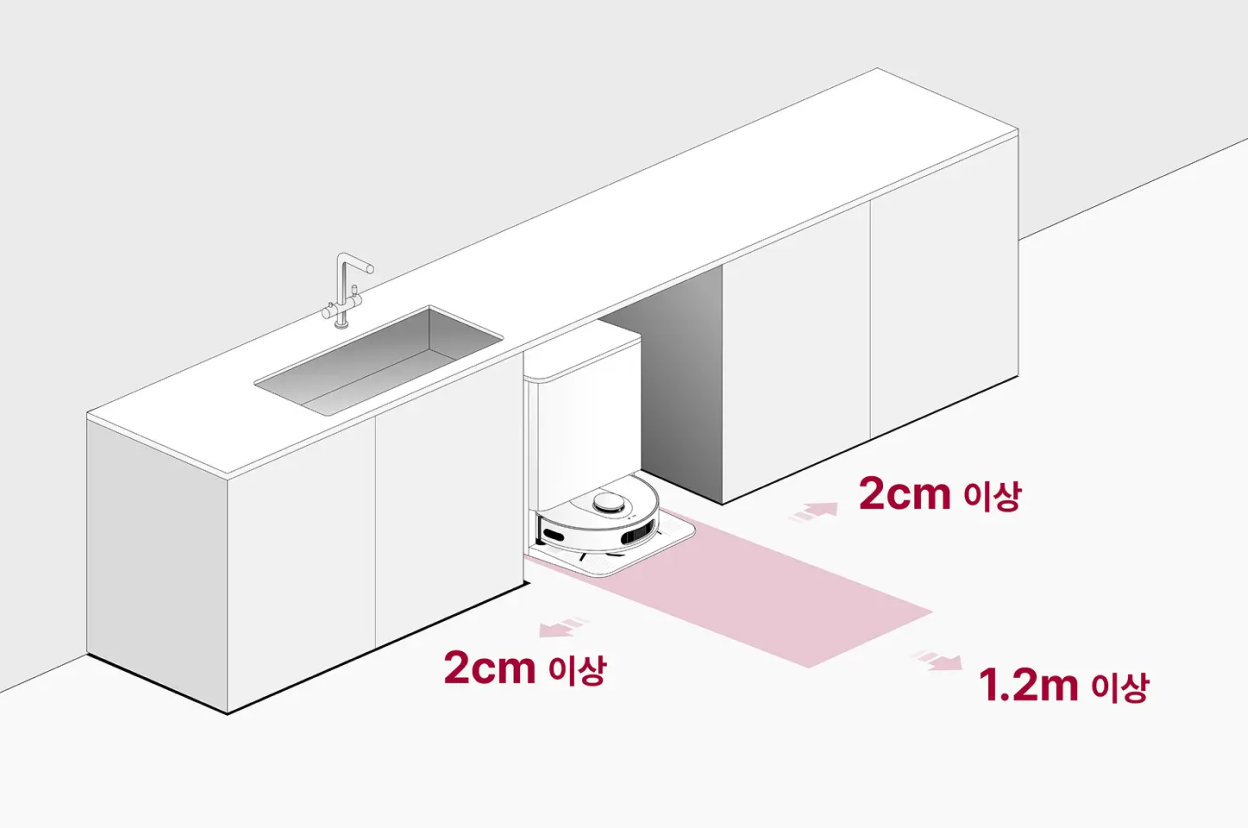
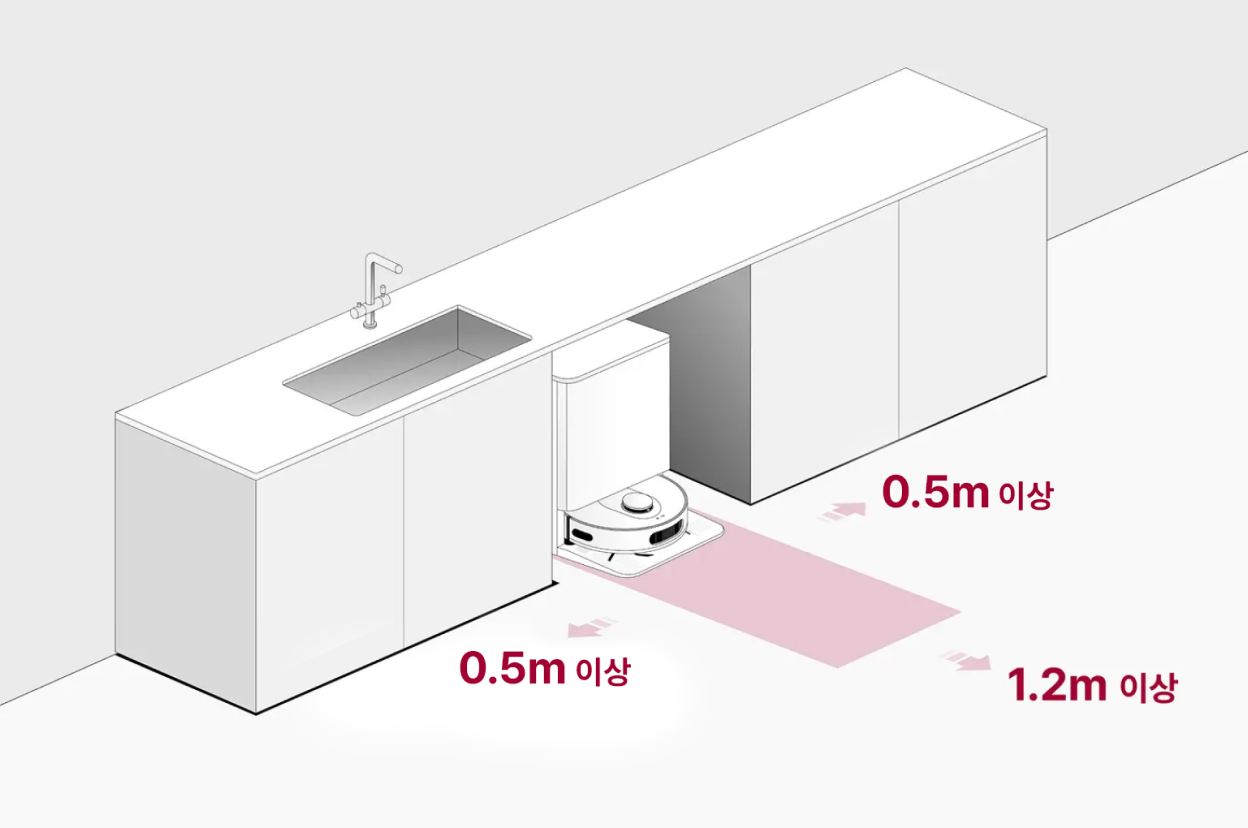
워시콤보/ 청소로봇 0.5cm 이미지 교체

diff --git a/kr/story/faq/wash-combo-faq.html b/kr/story/faq/wash-combo-faq.html
@@ -26,12 +26,18 @@
                     <h2>워시콤보 제품 질문</h2>
                     <div class="machine-faq__item"> <button type="button" class="machine-faq__title"
                             aria-expanded="false"> <!--접근성: aria-expanded 추가--> <span class="blind">질문</span> <span>Q.
-                                워시콤보는 어떤 제품인가요?</span> </button>
+                                워시콤보의 역할이 궁금해요.</span> </button>
                         <div class="machine-faq__content"> <span class="blind">답변</span>
-                            <p> <span style="font-weight: 700">워시콤보는 하나의 통 안에서 세탁부터 건조까지 한 번에 가능한 LG전자의 올인원 세탁 건조기예요.
-                                    <br> 131개의 특허 기술이 증명하는 기술력과 컴팩트한 디자인이 워시콤보의 가장 큰 장점이죠.</span> <br> 워시콤보와 함께면 물에 젖어
-                                무거운 세탁물을 건조기로 옮기는 번거로움도, 세탁기와 건조기가 함께 있어 좁아 보이던 공간은 사라지고, <br> 세탁기 한대 사이즈의 바디로 세탁부터 건조까지
-                                가능해진 세탁 건조 생활을 경험해 보세요. </p>
+                            <p>
+                                LG 트롬 워시콤보는 세탁부터 건조까지 하나의 통 안에서 한 번에 끝내는 올인원 세탁건조기입니다. <br>
+                            
+                                <span style="font-weight: 700">• 번거로움 없는 일상:</span> 무거운 젖은 빨래를 건조기로 옮길 필요가 없어 가사 노동의 수고를 덜어줍니다. <br>
+                                <span style="font-weight: 700">• 공간의 재발견:</span> 세탁기 한 대 분량의 설치 공간만 차지하므로, 세탁실을 훨씬 더 넓고 쾌적하게 활용할 수 있습니다. <br>
+                                <span style="font-weight: 700">• 독보적인 기술력:</span> 131개의 특허 기술이 집약된 강력한 성능과 컴팩트한 디자인으로 차원이 다른 세탁 경험을 제공합니다. <br><br>
+                            
+                                [131개 특허기술]<br>
+                                * 워시콤보 지적재산권 131건 : 특허 등록 97건, 디자인 등록 34건 (2026년 1월 기준, 동일 기술에 대한 글로벌 중복 특허와 디자인 포함)
+                            </p>
                         </div>
                     </div>
                     <div class="machine-faq__item"> <button type="button" class="machine-faq__title"
@@ -54,25 +60,31 @@
                     </div>
                     <div class="machine-faq__item"> <button type="button" class="machine-faq__title"
                             aria-expanded="false"> <!--접근성: aria-expanded 추가--> <span class="blind">질문</span> <span>Q.
-                                미니워시는 무엇인가요? 워시콤보에 미니워시를 결합하여 사용할 수 있나요?</span> </button>
+                                워시콤보에 미니워시를 결합해 사용할 수 있나요?</span> </button>
                         <div class="machine-faq__content"> <span class="blind">답변</span>
-                            <p> <span style="font-weight: 700">미니워시는 세탁기 혹은 건조기 하단에 추가하여 사용할 수 있는 소량 세탁용 세탁기예요. 워시콤보
-                                    제품에도 미니워시를 결합하여 마치 트윈워시처럼 사용할 수 있답니다.</span> <br> 미니워시를 사용하는 경우 워시콤보와 미니워시를 위·아래로 동시
-                                세탁할 수 있고, 아기 옷, 펫 용품, 언더웨어 그리고 스포츠 의류처럼 분리 세탁이 필요한 경우에도 효율적으로 세탁할 수 있어요.
-                                워시콤보에 미니워시를 연결하면 워시콤보 디스플레이에서 콤보와 미니워시 모두 사용할 수도 있습니다. <br>
-                                미니워시를 연결하려면 설정 > 기타 > 미니워시 연결 버튼을 누른 후 미니워시의 '통살균' 버튼을 3초 동안 누른 뒤 연결해 주세요. <br>
+                            <p>
+                                미니워시는 세탁기나 건조기 하단에 설치하는 소량 세탁 전용 세탁기입니다. <br class="pc-only"> LG 트롬 워시콤보와 결합하면 상·하단 동시 세탁이 가능한 트윈워시 형태로 활용할 수 있습니다.
+                                <br><br>
+                                <span style="font-weight: 700">■ 핵심 기능</span><br>
+                                • 분리 세탁에 최적: 아기 옷, 속옷, 스포츠 의류, 반려동물 용품 등 소량의 빨래를 따로 세탁할 때 효율적입니다.<br>
+                                • 통합 제어: 워시콤보 디스플레이 하나로 미니워시까지 간편하게 조작할 수 있습니다.<br><br>
+                                <span style="font-weight: 700">■ 사용 방법</span><br>
+                                • 연결 방법: 워시콤보 [설정] > [기타] > [미니워시 연결] 메뉴를 누른 뒤, 미니워시의 [통살균] 버튼을 3초간 누르면 연결됩니다.<br><br>
+                                <span style="font-weight: 700">■ 구매 전 참고사항</span><br>
+                                LGE.COM에서는 워시콤보와 미니워시를 세트로 구매할 수 있으니 참고해 주세요.
                                 
-                                LGE.COM에서는 워시콤보와 미니워시를 세트로도 구매할 수 있으니 참고해 주세요. </p>
+                                </p>
+                                <a href="https://www.lge.co.kr/sch?keyword=%EB%AF%B8%EB%8B%88%EC%9B%8C%EC%8B%9C&tab=product">미니워시 보러가기</a>
                         </div>
                     </div>
                     <div class="machine-faq__item"> <button type="button" class="machine-faq__title"
                             aria-expanded="false"> <!--접근성: aria-expanded 추가--> <span class="blind">질문</span> <span>Q.
                                 키높이 수납함은 무엇인가요? 워시콤보에 키높이 수납함을 결합하여 사용할 수 있나요?</span> </button>
                         <div class="machine-faq__content"> <span class="blind">답변</span>
-                            <p> <span style="font-weight: 700">키높이 수납함은 세탁기 혹은 건조기 하단에 추가하여 사용할 수 있는 수납함이에요. 워시콤보 제품에도
-                                    키높이 수납함을 결합하여 사용할 수 있답니다.</span> <br> 키높이 수납함을 사용하면 수납함 안에 세탁물 혹은 세제 등을 보관하여 세탁실 공간을
-                                효율적으로 사용할 수 있어요. <br> 또한 워시콤보가 키높이 수납함 위에 설치되어 높이가 높아지기 때문에, 허리를 숙이는 것이 불편하신 분들은 워시콤보를
-                                조금 더 편리하게 사용할 수 있도록 도와주는 역할도 한답니다. LGE.COM에서는 워시콤보와 키높이 수납함을 세트로도 구매할 수 있으니 참고해 주세요.
+                            <p> <span style="font-weight: 700">키높이 수납함은 세탁기 혹은 건조기 하단에 추가하여 사용할 수 있는 수납함이에요. <br class="pc=only">워시콤보 제품에도
+                                    키높이 수납함을 결합하여 사용할 수 있답니다.</span> <br><br class="pc=only"> 키높이 수납함을 사용하면 수납함 안에 세탁물 혹은 세제 등을 보관하여 세탁실 공간을
+                                효율적으로 사용할 수 있어요. <br> 또한 워시콤보가 키높이 수납함 위에 설치되어 높이가 높아지기 때문에, <br class="pc-only"> 허리를 숙이는 것이 불편하신 분들은 워시콤보를
+                                조금 더 편리하게 사용할 수 있도록 도와주는 역할도 한답니다.<br class="pc=only"> LGE.COM에서는 워시콤보와 키높이 수납함을 세트로도 구매할 수 있으니 참고해 주세요.<br class="pc=only">
                             </p>
                         </div>
                     </div>
@@ -161,7 +173,16 @@
                             aria-expanded="false"> <!--접근성: aria-expanded 추가--> <span class="blind">질문</span> <span>Q.
                                 워시콤보 설치 시 상단 여유 공간이 얼마나 필요할까요?</span> </button>
                         <div class="machine-faq__content"> <span class="blind">답변</span>
-                            <p>워시콤보의 경우 상단 슬라이드 필터 사용을 위해 위쪽에 30cm의 여유 공간이 필요합니다.</p>
+                            <p>LG전자 워시콤보 설치 시 슬라이드 필터의 원활한 사용을 위해 약 30cm의 여유 공간이 필요합니다. <br> 슬라이더 필터는 워시콤보 제품 상단에 위치해 있습니다. <br><br>
+                            
+                                설치 가능 여부를 미리 꼼꼼하게 확인하고 싶다면, 유상 사전 답사를 이용할 수 있습니다.<br> 설치 서비스 예약 및 사전 답사 관련 문의는 LG전자 고객센터(1544-7777)로 접수 가능합니다.
+                            </p>
+                            <p class="machine-faq__more-content">
+                                <p>워시콤보 설치 방법에 대한 더 자세한 사용법이 궁금하시다면, 아래 버튼을 클릭해 보세요.</p> 
+                                <a href="https://www.lge.co.kr/story/user-guide/washing-machines-and-dryers-install-guide">워시콤보 설치 가이드 보러가기</a>
+                            
+                            
+                            </p>
                         </div>
                     </div>
                     <div class="machine-faq__item"> <button type="button" class="machine-faq__title"
@@ -181,16 +202,49 @@
                                 <!--접근성: aria-expanded 추가--> <span class="blind">질문</span> <span>Q.
                                     워시콤보를 구독하면 제가 따로 청소 안 해도 되나요?</span> </button>
                             <div class="machine-faq__content"> <span class="blind">답변</span>
-                                <p>급속통헹굼 코스와 통살균 코스를 이용해 정기적으로 관리해 주시면 더 좋아요. <br> 그 외 관리는 방문주기에 맞춰 케어 전문가가 방문하여 전문 관리제와 전용 코스로 드럼을 관리하고, 스팀 케어도 해줘요. <br>
-                                    고무패킹, 배수필터는 물론 세제함, 스팀 노즐까지 클리닝하고, 2중 안심필터는 첫 방문 시 1회 무상으로 제공해 드려요. </p>
+                                <p>워시콤보 구독 시 전문가의 방문 케어가 포함되어 관리가 훨씬 쉬워집니다. <br> 다만, 최상의 위생 상태를 유지하기 위해 일상적인 가벼운 관리는 병행해 주시는 것이 좋습니다.<br><br>
+                                
+                                    <span style="font-weight:700">■ 전문가의 케어서비스</span><br>
+                                    <span style="font-weight:700">• 내부 살균</span>: 전용 관리제와 코스, 스팀 케어로 드럼 내부 철저 관리<br>
+                                    <span style="font-weight:700">• 정밀 클리닝</span>: 고무패킹, 배수필터, 세제함, 스팀 노즐까지 꼼꼼하게 세척<br>
+                                    <span style="font-weight:700">• 소모품 제공</span>: 2중 안심필터 무상 제공(첫 방문 시 1회) 및 건조필터 교체/관리<br>
+                                    <span style="font-weight:700">• 무상 A/S</span>: 구독 기간 내 지원<br><br>
+                                
+                                    <span style="font-weight:700">■ 셀프 권장 관리</span><br>
+                                    <span style="font-weight:700">• 주기적 관리</span>: 급속통헹굼 및 통살균 코스를 정기적으로 실행해 주세요.<br>
+                                    <span style="font-weight:700">• 일상 관리</span>: 세탁 후 도어를 열어 내부를 환기하고, 눈에 보이는 가벼운 물기나 먼지를 닦아주시면 더욱 위생적입니다.
+                                
+                                
+                                </p>
+                                <p class="machine-faq__more-content">
+                                    <p>케어서비스에 대한 더 자세한 사용법이 궁금하시다면, 아래 버튼을 클릭해 보세요.</p> 
+                                    <a href="https://www.lge.co.kr/care-solutions/rentalService">케어서비스 자세히 보기</a>
+                                
+                                </p>
+
                             </div>
                         </div>
                         <div class="machine-faq__item"> <button type="button" class="machine-faq__title" aria-expanded="false">
                                 <!--접근성: aria-expanded 추가--> <span class="blind">질문</span> <span>Q.
                                     워시콤보 웰컴키트에 포함된 건조볼과 세탁망은 어떻게 사용하면 되나요?</span> </button>
                             <div class="machine-faq__content"> <span class="blind">답변</span>
-                                <p>웰컴키트에 포함된 건조볼에 섬유유연시트를 끼워 사용하세요. <br>섬유유연시트가 드럼 틈새에 끼는 것을 막아, 편리하게 사용할 수 있습니다. <br>슬리브, 스타킹, 타이즈, 속옷, 양말 같은 크기가
-                                    작은 세탁물의 경우 드럼 틈새에 낄 수 있으므로 세탁 망을 이용하여 세탁하세요. <br>세탁 망은 절반 정도만 세탁물을 채워서 사용하세요. </p>
+                                <p>워시콤보 웰컴키트에 포함된 건조볼과 세탁망은 세탁 과정에서 유용하게 사용 가능합니다.<br><br>
+                                
+                                    <span style="font-weight:700">■ 건조볼 사용 방법</span> <br>
+                                    <span style="font-weight:700">• 사용 위치</span>: 세탁이 끝난 뒤 건조 단계에서, 젖은 빨래와 함께 드럼 안에 건조볼을 넣고 문을 닫은 뒤 건조 코스를 선택해
+                                    사용합니다.<br>
+                                    <span style="font-weight:700">• 사용 팁</span>:<br>
+                                    - 수건·이불처럼 두껍고 뭉치기 쉬운 빨래에 쓰면 건조 시간을 줄이고 뭉침을 완화하는 데 도움이 됩니다.<br>
+                                    - 너무 많은 양의 빨래에 건조볼을 여러 개 넣으면 소음이 커질 수 있어, 2~3개 정도만 넣어 사용하시는 걸 권장합니다.<br><br>
+                                
+                                    <span style="font-weight:700">■ 세탁망 사용 방법</span><br>
+                                    <span style="font-weight:700">• 사용 위치</span>: 세탁 전, 속옷·얇은 티셔츠·니트·레이스류·지퍼/단추가 많은 옷 등을 세탁망에 넣고 지퍼/단추를 완전히 잠근 뒤 드럼
+                                    안에<br>
+                                    넣어 세탁 코스를 선택합니다.<br>
+                                    <span style="font-weight:700">• 사용 팁</span>:<br>
+                                    - 의류 케어가 중요한 울/섬세, 기능성 의류, 아기옷 등은 세탁망에 넣고 해당 코스를 선택하면 옷감 손상과 늘어짐을 줄이는 데 도움이 됩니다.<br>
+                                    - 세탁망을 너무 꽉 채우지 말고 70% 정도만 넣어야 세제가 잘 돌고 세탁·헹굼이 고르게 이뤄집니다.
+                                </p>
                             </div>
                         </div>
                     </div>